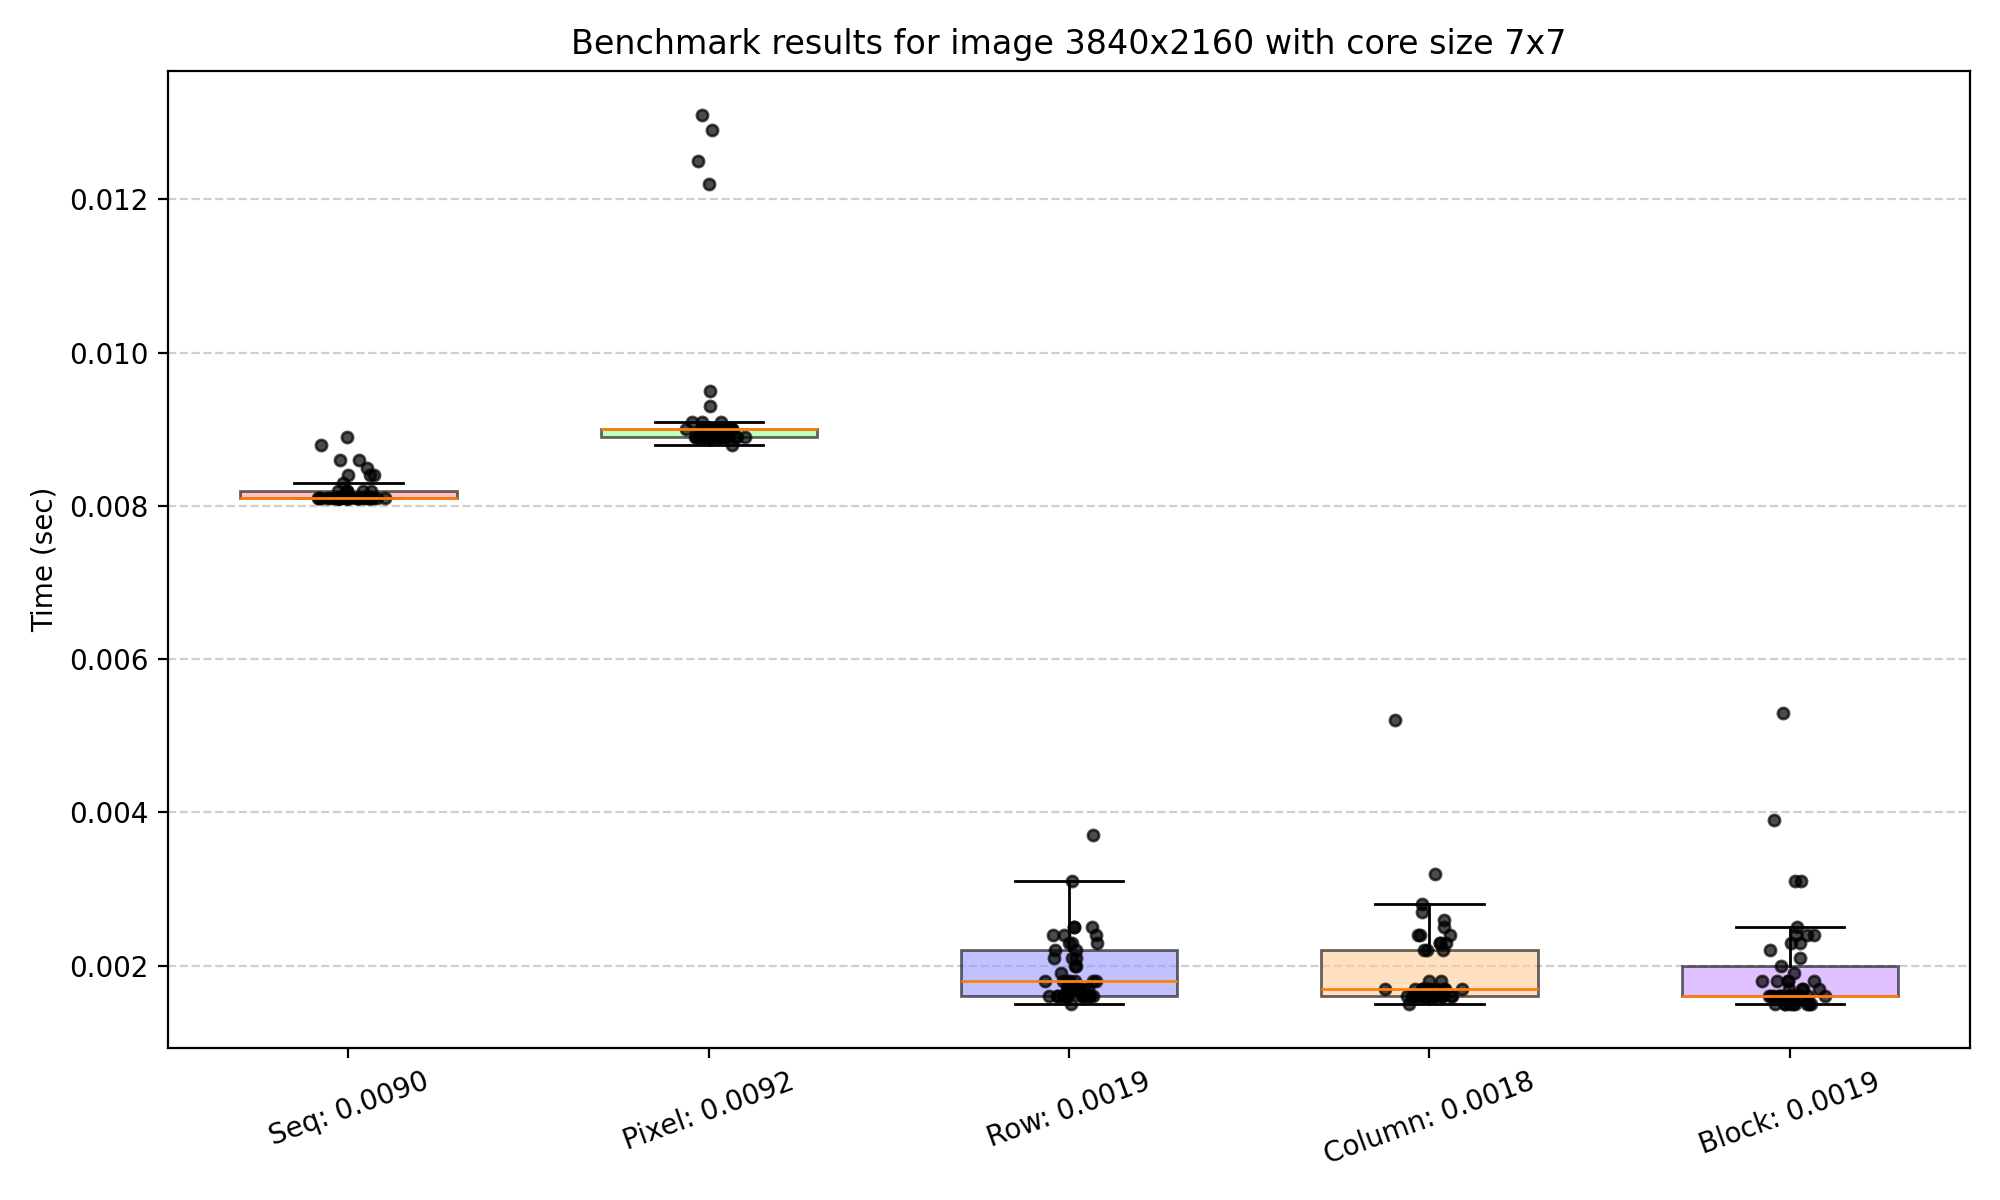
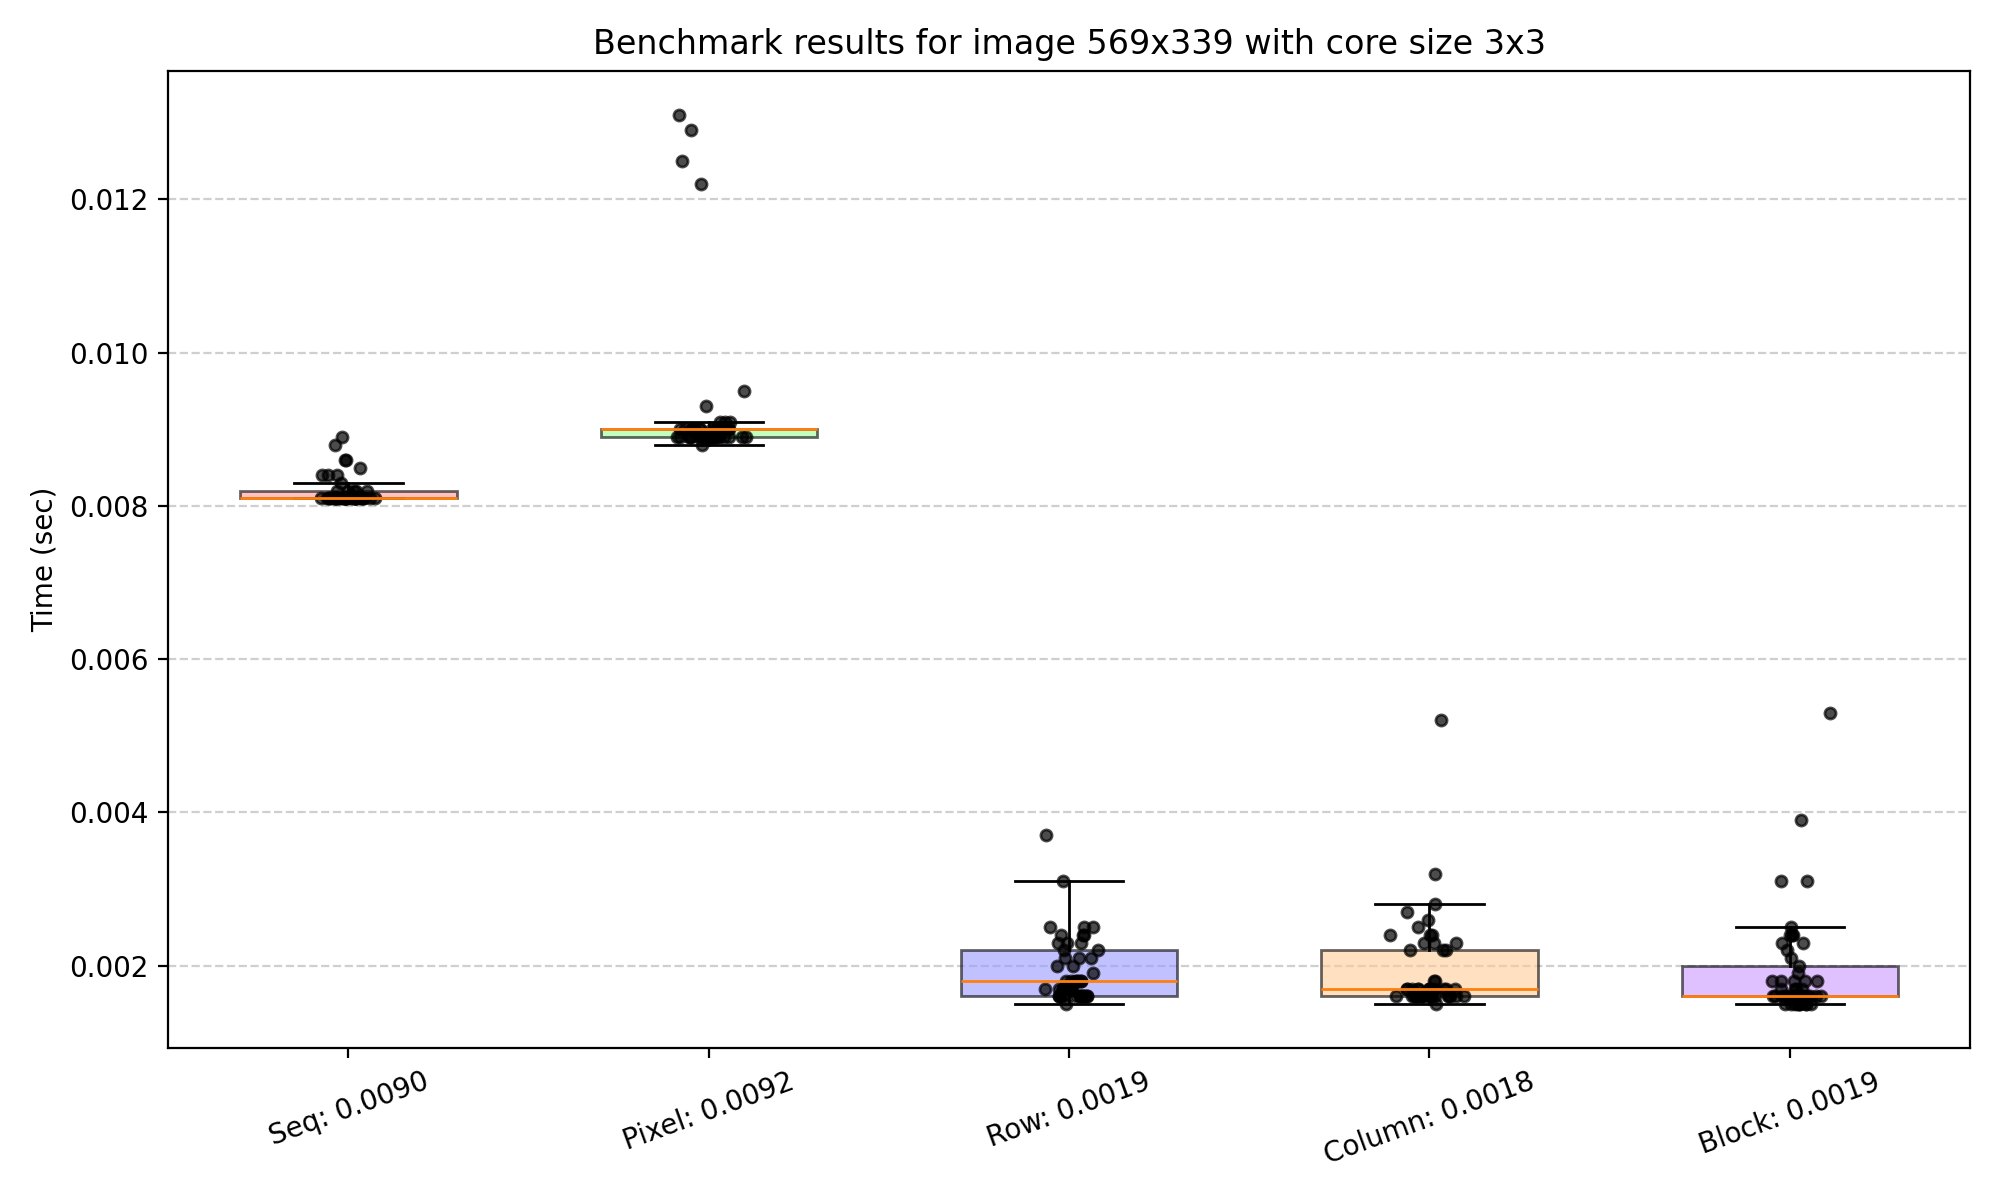
fix: change comment for bench 1

diff --git a/benchmark/plot.py b/benchmark/plot.py
@@ -4,7 +4,7 @@ import numpy as np
 methods = []
 data = []
 
-filename = "results3"
+filename = "results1"
 
 with open(filename + ".csv") as f:
     for line in f:
@@ -39,7 +39,7 @@ for i, d in enumerate(data, start=1):
 ax.set_xticks(np.arange(1, len(methods) + 1))
 ax.set_xticklabels(methods, rotation=20)
 ax.set_ylabel("Time (sec)")
-ax.set_title("Benchmark results for image 7680x4320 with core size 3x3")
+ax.set_title("Benchmark results for image 569x339 with core size 3x3")
 
 plt.grid(True, axis="y", linestyle="--", alpha=0.6)
 plt.tight_layout()
